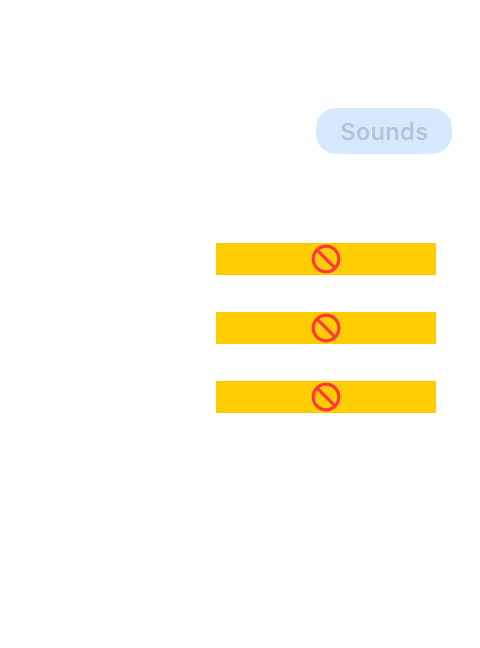
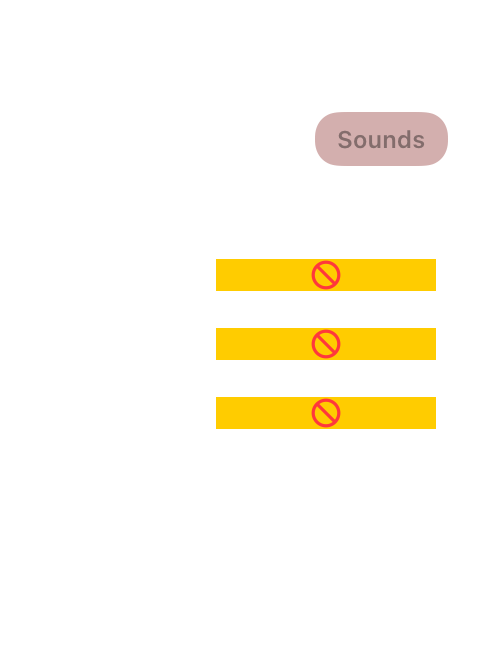
Restore rounded tab selector

Changed region(s): [[0.4375, 0.3704, 0.9062, 0.5556], [0.4375, 0.5864, 0.9062, 0.6481], [0.6562, 0.1543, 0.9688, 0.2469]]

diff --git a/TomatoBar/View.swift b/TomatoBar/View.swift
@@ -219,9 +219,9 @@ private struct GlassTabBar: View {
             tab(.sounds, title: NSLocalizedString("TBPopoverView.sounds.label",
                                                   comment: "Sounds label"))
         }
-        .padding(2)
+        .padding(4)
         .frame(maxWidth: .infinity)
-        .liquidGlassPanel(cornerRadius: 12, interactive: true)
+        .liquidGlassPanel(cornerRadius: 16, interactive: true)
     }
 
     private func tab(_ childView: ChildView, title: String) -> some View {
@@ -240,7 +240,7 @@ private struct GlassTabBar: View {
                     .font(.system(size: 12, weight: selection == childView ? .semibold : .regular))
                     .lineLimit(1)
                     .frame(maxWidth: .infinity)
-                    .padding(.vertical, 4)
+                    .padding(.vertical, 6)
             }
             .contentShape(RoundedRectangle(cornerRadius: 12, style: .continuous))
         }
@@ -248,22 +248,8 @@ private struct GlassTabBar: View {
     }
 
     private var selectedTabBackground: some View {
-        RoundedRectangle(cornerRadius: 10, style: .continuous)
-            .fill(Color.accentColor.opacity(0.16))
-            .modifier(SelectedTabGlass())
-    }
-}
-
-private struct SelectedTabGlass: ViewModifier {
-    @ViewBuilder
-    func body(content: Content) -> some View {
-        if #available(macOS 26.0, *) {
-            content
-                .foregroundStyle(.clear)
-                .glassEffect(.regular.interactive(), in: .rect(cornerRadius: 10))
-        } else {
-            content
-        }
+        RoundedRectangle(cornerRadius: 12, style: .continuous)
+            .fill(Color(red: 0.55, green: 0.18, blue: 0.16).opacity(0.38))
     }
 }
 
